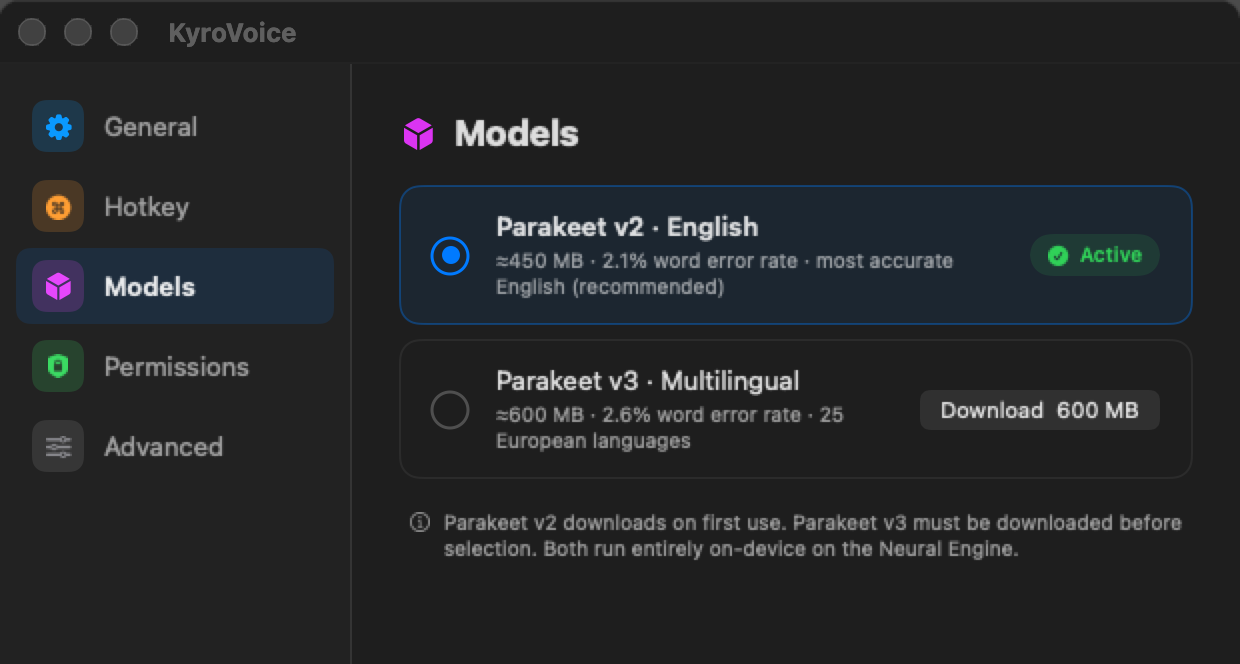
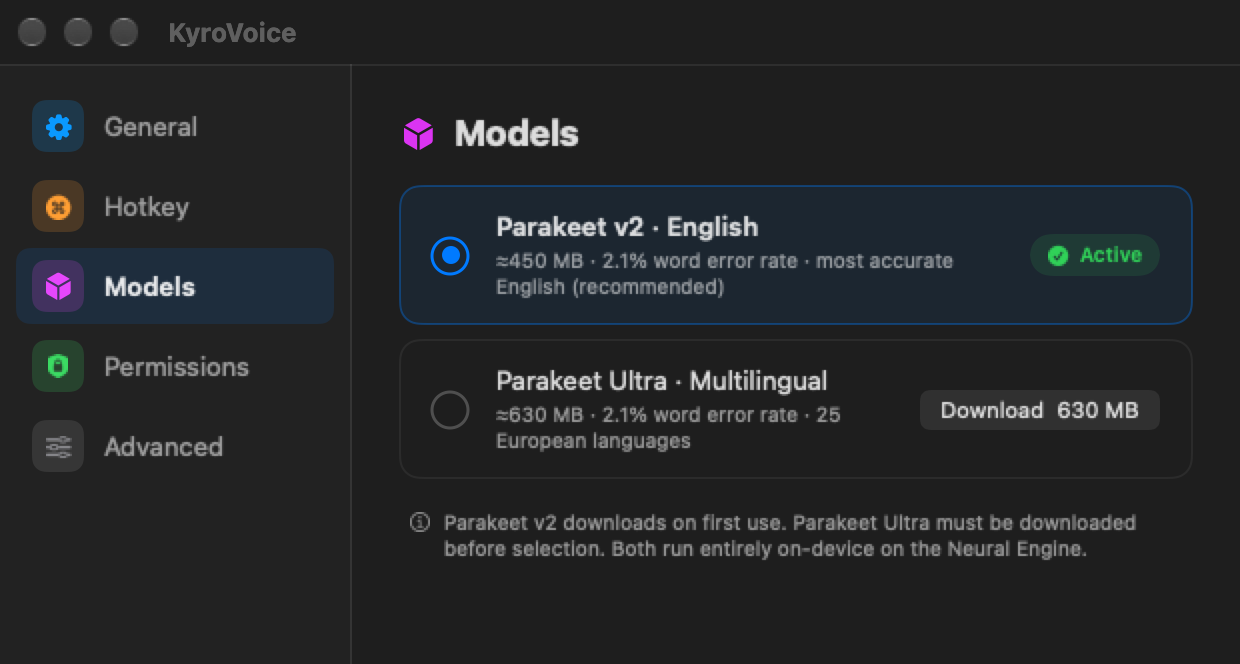
feat(models): replace Parakeet v3 with Parakeet Ultra
Ultra (FluidAudio 0.17.3+) is a post-trained v3: same 25 languages,
tokenizer and speed, lower WER everywhere upstream measured it
(LibriSpeech test-clean 2.13% vs 2.27%, test-other 3.81% vs 4.12%,
FLEURS 24-language mean 11.67% vs 14.81%). Download is ~630 MB.

v2 stays the default for English: on our --speech-check clips both v3
and Ultra hear "Send" as "Sent" and drop "th" from "14th", while v2
gets both right.

A stored v3 selection no longer maps to a case and falls back to v2,
which auto-downloads, through the existing SettingsStore guard.

diff --git a/Sources/KyroVoice/Core/Speech/ModelVariant.swift b/Sources/KyroVoice/Core/Speech/ModelVariant.swift
@@ -3,13 +3,15 @@ import FluidAudio
 
 /// The speech-recognition model to run. Both are NVIDIA Parakeet TDT 0.6B
 /// converted to CoreML by FluidAudio and executed on the Apple Neural Engine.
+/// Ultra is a post-trained v3 that beats it on every benchmark at the same
+/// speed, so it replaced v3. A stored v3 selection falls back to v2.
 ///
 /// Raw values are persisted in UserDefaults. They intentionally do not match
 /// the old `openai_whisper-*` strings, so an existing install falls through
 /// `ModelVariant(rawValue:) ?? .parakeetV2` and lands on the better model.
 public enum ModelVariant: String, CaseIterable, Identifiable, Codable, Sendable {
     case parakeetV2 = "parakeet-tdt-0.6b-v2"
-    case parakeetV3 = "parakeet-tdt-0.6b-v3"
+    case parakeetUltra = "parakeet-ultra"
 
     public var id: String { rawValue }
 
@@ -17,34 +19,34 @@ public enum ModelVariant: String, CaseIterable, Identifiable, Codable, Sendable 
     public var asrVersion: AsrModelVersion {
         switch self {
         case .parakeetV2: return .v2
-        case .parakeetV3: return .v3
+        case .parakeetUltra: return .ultra
         }
     }
 
     public var displayName: String {
         switch self {
         case .parakeetV2: return "Parakeet v2 · English"
-        case .parakeetV3: return "Parakeet v3 · Multilingual"
+        case .parakeetUltra: return "Parakeet Ultra · Multilingual"
         }
     }
 
     public var shortDescription: String {
         switch self {
         case .parakeetV2: return "≈450 MB · 2.1% word error rate · most accurate English (recommended)"
-        case .parakeetV3: return "≈600 MB · 2.6% word error rate · 25 European languages"
+        case .parakeetUltra: return "≈630 MB · 2.1% word error rate · 25 European languages"
         }
     }
 
     public var approxDownloadMB: Int {
         switch self {
         case .parakeetV2: return 450
-        case .parakeetV3: return 600
+        case .parakeetUltra: return 630
         }
     }
 
-    /// v2 auto-downloads on first dictation (it is the default). v3 is opt-in,
-    /// so the user is not surprised by a second 600 MB transfer.
+    /// v2 auto-downloads on first dictation (it is the default). Ultra is opt-in,
+    /// so the user is not surprised by a second 630 MB transfer.
     public var requiresExplicitDownload: Bool {
-        self == .parakeetV3
+        self == .parakeetUltra
     }
 }

diff --git a/docs/index.html b/docs/index.html
@@ -240,7 +240,7 @@ a:focus-visible,.btn:focus-visible{outline:2px solid var(--amber);outline-offset
     <h2>A menu bar icon and one hotkey.</h2>
     <div class="shot-grid">
       <div>
-        <div class="shot"><img src="img/settings.png" width="1240" height="664" alt="KyroVoice settings, Models pane: Parakeet v2 English active, Parakeet v3 multilingual available to download."></div>
+        <div class="shot"><img src="img/settings.png" width="1240" height="664" alt="KyroVoice settings, Models pane: Parakeet v2 English active, Parakeet Ultra multilingual available to download."></div>
         <p class="cap">Two models. English is on by default.</p>
       </div>
       <div>
@@ -249,8 +249,8 @@ a:focus-visible,.btn:focus-visible{outline:2px solid var(--amber);outline-offset
           <div class="spec"><div class="n">450 MB</div><div class="k">v2 download</div></div>
         </div>
         <div class="specs">
-          <div class="spec"><div class="n">25</div><div class="k">v3 languages</div></div>
-          <div class="spec"><div class="n">600 MB</div><div class="k">v3 download</div></div>
+          <div class="spec"><div class="n">25</div><div class="k">Ultra languages</div></div>
+          <div class="spec"><div class="n">630 MB</div><div class="k">Ultra download</div></div>
         </div>
         <p class="cap">Downloaded once, then it works offline.</p>
       </div>

diff --git a/Sources/KyroVoice/UI/SettingsView.swift b/Sources/KyroVoice/UI/SettingsView.swift
@@ -259,7 +259,7 @@ struct SettingsView: View {
                     }
                 }
 
-                infoNote("Parakeet v2 downloads on first use. Parakeet v3 must be downloaded before selection. Both run entirely on-device on the Neural Engine.")
+                infoNote("Parakeet v2 downloads on first use. Parakeet Ultra must be downloaded before selection. Both run entirely on-device on the Neural Engine.")
             }
             .padding(24)
         }

diff --git a/docs/USER_GUIDE.md b/docs/USER_GUIDE.md
@@ -174,14 +174,14 @@ need both.
 | Model | Size | Accuracy | Languages |
 |---|---|---|---|
 | **Parakeet v2 · English** (default) | ≈450 MB | 2.1% word error rate | English |
-| **Parakeet v3 · Multilingual** | ≈600 MB | 2.6% word error rate | 25 European languages |
+| **Parakeet Ultra · Multilingual** | ≈630 MB | 2.1% word error rate | 25 European languages |
 
-v2 downloads automatically the first time you dictate. v3 is opt-in: click
+v2 downloads automatically the first time you dictate. Ultra is opt-in: click
 **Download** and wait. The download can be cancelled, and if it already finished
 the bytes are kept so you never re-download.
 
-Stick with v2 unless you dictate in a language other than English. It is both
-smaller and more accurate for English.
+Stick with v2 unless you dictate in a language other than English. It is
+smaller and just as accurate for English.
 
 Models are stored in `~/Library/Application Support/FluidAudio/Models`.
 

diff --git a/docs/ARCHITECTURE.md b/docs/ARCHITECTURE.md
@@ -305,10 +305,10 @@ so the first hotkey press is not the first time CoreML sees the model.
 | Variant | Size | WER | Languages | Download |
 |---|---|---|---|---|
 | `parakeet-tdt-0.6b-v2` (default) | ≈450 MB | 2.1% | English | automatic on first use |
-| `parakeet-tdt-0.6b-v3` | ≈600 MB | 2.6% | 25 European | explicit, from Settings → Models |
+| `parakeet-ultra` (post-trained v3) | ≈630 MB | 2.1% | 25 European | explicit, from Settings → Models |
 
 `requiresExplicitDownload` exists so the user is never surprised by a second
-600 MB transfer. `SettingsStore` records completed downloads in
+630 MB transfer. `SettingsStore` records completed downloads in
 `kv.downloadedModels` and falls back to v2 if the stored variant is not on disk.
 
 Parakeet emits punctuation, capitalization and inverse text normalization

diff --git a/docs/DEVELOPMENT.md b/docs/DEVELOPMENT.md
@@ -91,7 +91,7 @@ Sources/KyroVoice/
 │   ├── HistoryStore.swift           history.json, 24 h TTL
 │   └── Speech/
 │       ├── SpeechEngine.swift          actor around FluidAudio AsrManager
-│       ├── ModelVariant.swift          v2 / v3 metadata
+│       ├── ModelVariant.swift          v2 / Ultra metadata
 │       └── SpeechEngineSelfCheck.swift --speech-check
 ├── Models/
 │   ├── DictationMode.swift      normal / email / code
